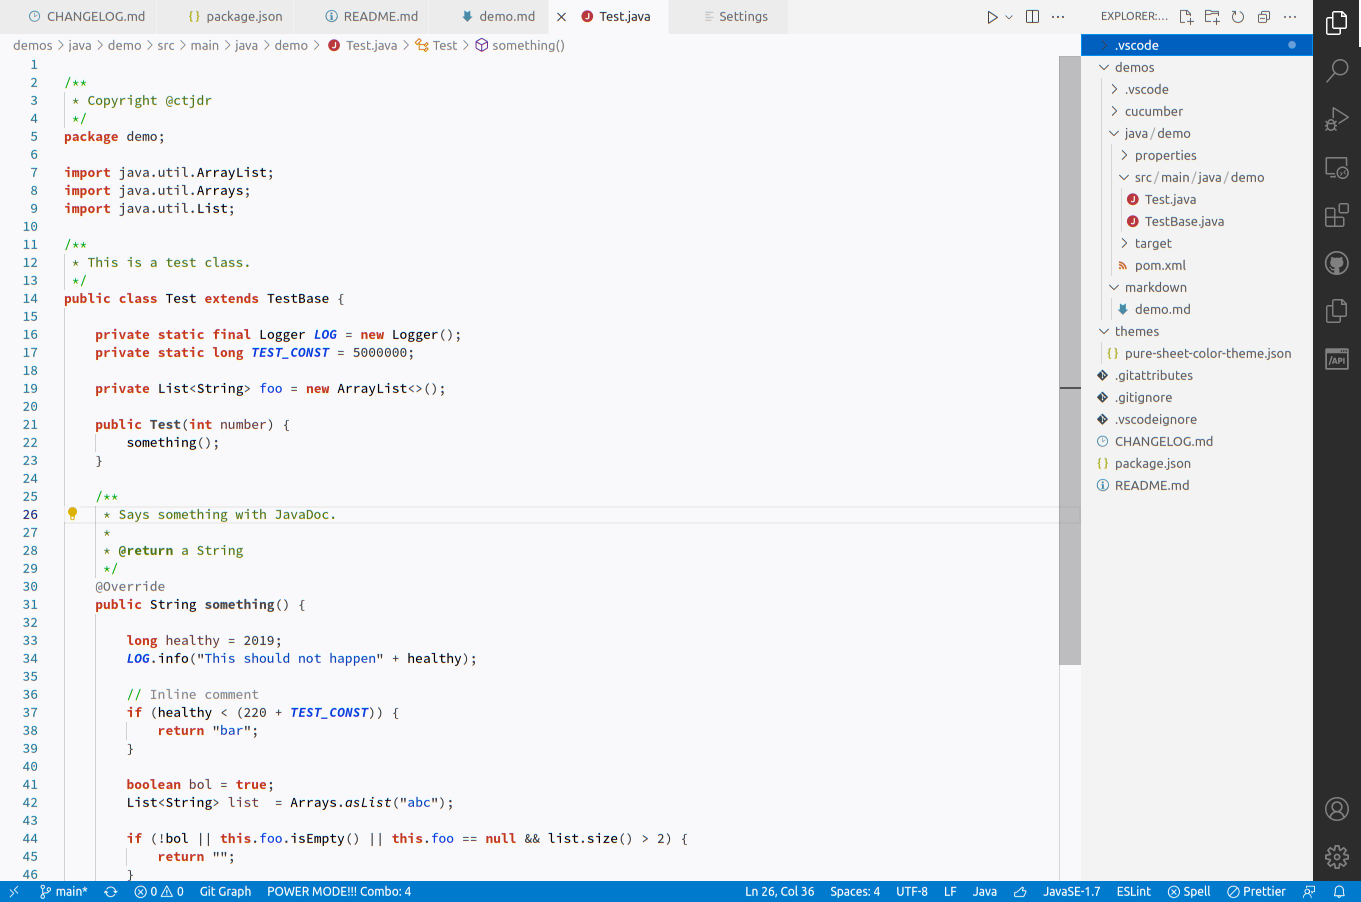
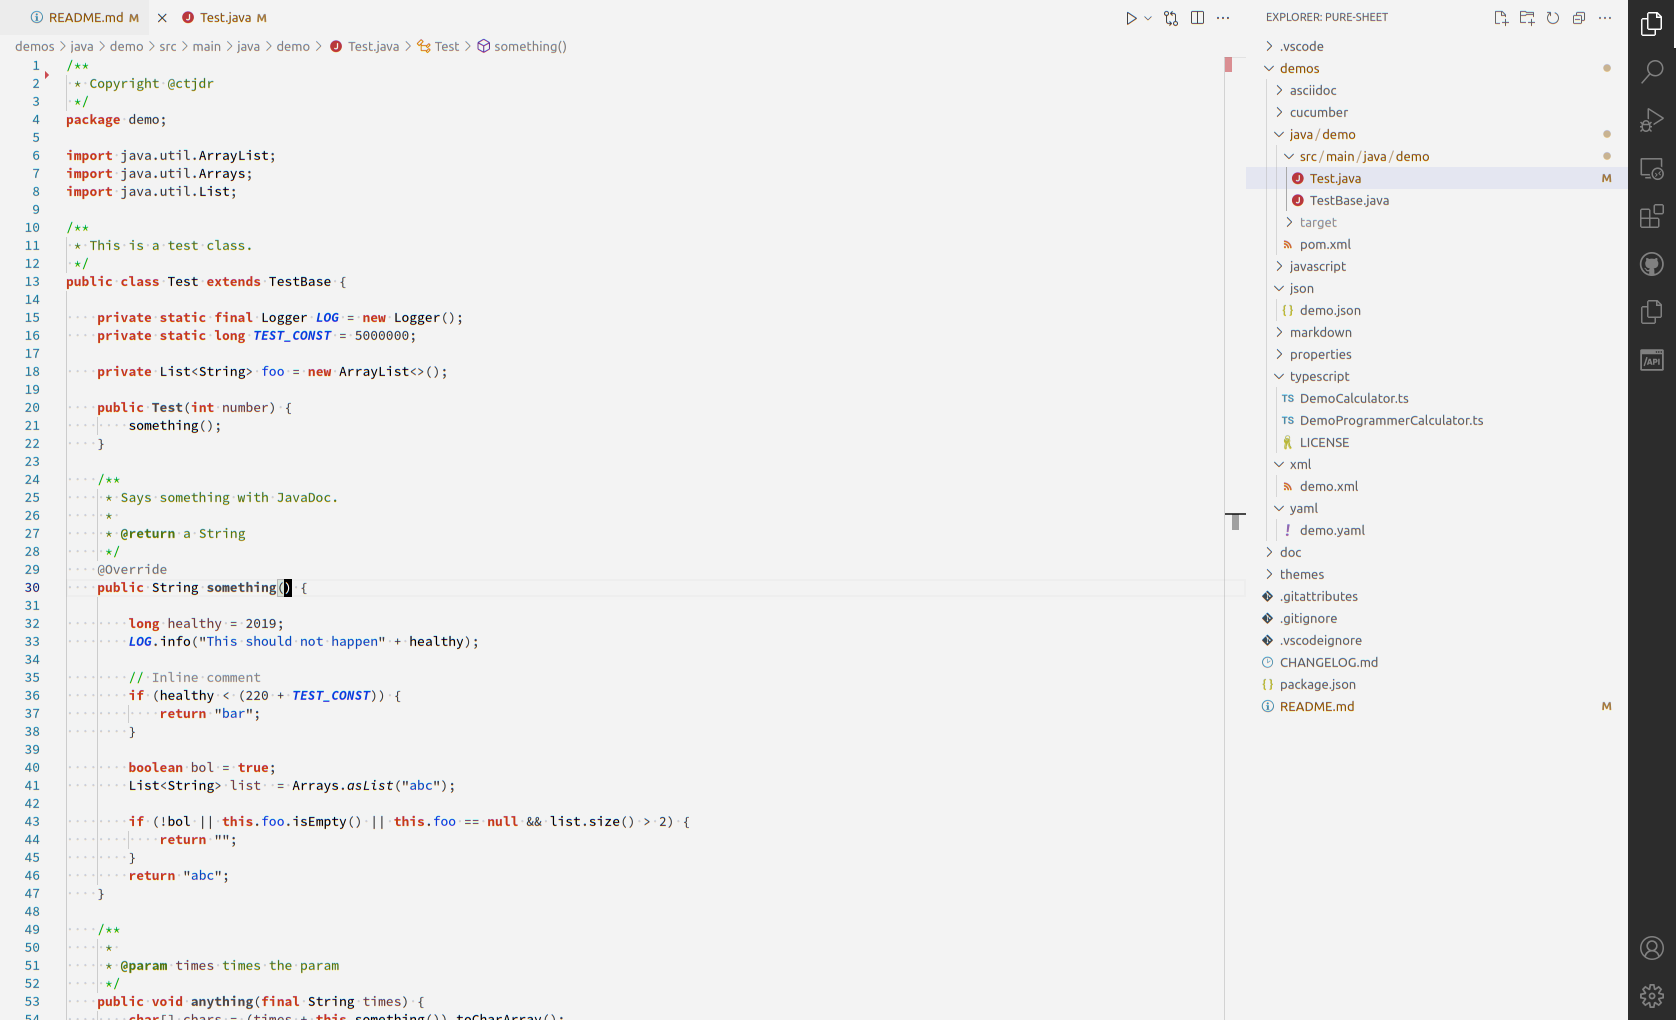
Update screenshot

diff --git a/demos/java/demo/src/main/java/demo/Test.java b/demos/java/demo/src/main/java/demo/Test.java
@@ -1,4 +1,3 @@
-
 /**
  * Copyright @ctjdr
  */

diff --git a/README.md b/README.md
@@ -5,3 +5,17 @@ An eye-friendly light VS Code color scheme based on the [Clean Sheet](https://fa
 
 ![Pure Sheet Screenshot](doc/images/pure-sheet-01.png)
 
+
+## Language support
+
+This theme should work with all languages but is especially tested with:
+
+- Java
+- XML
+- JSON
+- YAML
+- Markdown
+- Gherkin/Cucumber features
+- AsciiDoc
+- JavaScript
+- TypeScript
